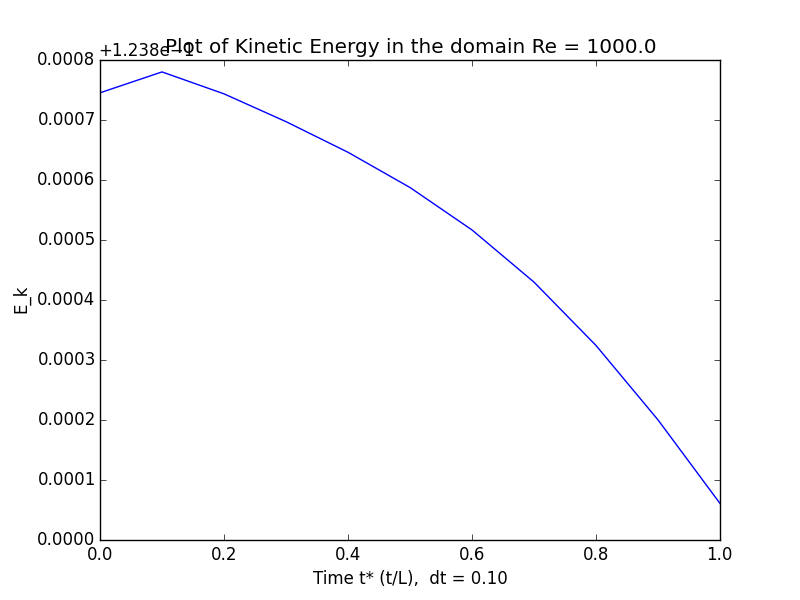
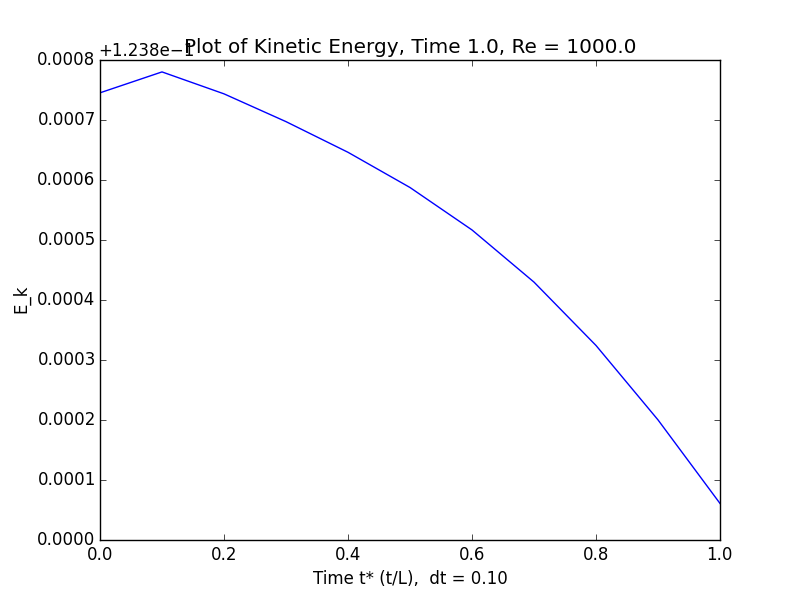
save exp

Changed region(s): [[0.1875, 0.06, 0.8125, 0.09]]

diff --git a/TaylorGreen/3D/chorin3D.py b/TaylorGreen/3D/chorin3D.py
@@ -167,17 +167,17 @@ set_log_active(False)
 error = []; dof = []; K = []; time_calc = []
 E_k = []; time = [0]; t_star = []
 N = [32];
-L = 1.; nu = 0.001; dt=0.01
+L = 1.; nu = 0.001; dt=0.001; T = 20.
 Re = L*1./nu
 print "Reynolds number %.1f" % Re
 #Watch nu
 for i in N:
-    chorin(i, dt=dt, T = 10, L = L, nu = nu)
+    chorin(i, dt=dt, T = T, L = L, nu = nu)
 if MPI.rank(mpi_comm_world()) == 0:
 	np.savetxt('chorindata/E_k.txt', E_k, delimiter=',')
 	np.savetxt('chorindata/t_star.txt', t_star, delimiter=',')
 	plt.figure(1)
-	plt.title("Plot of Kinetic Energy in the domain Re = %.1f" % Re)
+	plt.title("Plot of Kinetic Energy, Time %.1f, Re = %.1f" % (T, Re))
 	plt.xlabel('Time t* (t/L),  dt = %.2f' % dt)
 	plt.ylabel('E_k')
 	plt.plot(t_star, E_k)
@@ -186,7 +186,7 @@ if MPI.rank(mpi_comm_world()) == 0:
 	E_k = np.asarray(E_k); t_star = np.asarray(t_star)
 	E_t = (E_k[1:] - E_k[:-1])/dt
 	plt.figure(2)
-	plt.title("Plot of Dissipation in the domain")
+	plt.title("Plot of Dissipation")
 	plt.xlabel('Time t* (t/L)')
 	plt.ylabel(' dE_k/dt')
 	plt.plot(t_star[:-1], E_t)

diff --git a/TaylorGreen/3D/plotresult.py b/TaylorGreen/3D/plotresult.py
@@ -1,27 +1,7 @@
-import matplotlib.pyplot as plt
-import numpy as np
+import os
 
-E_k = np.loadtxt('E_k.txt')
-t_star = np.loadtxt('t_star.txt')
-
-E_k = np.asarray(-E_k)
-t_star = np.asarray(t_star)
-
-E_t = (E_k[1:] - E_k[:-1])/0.01
-
-
-plt.figure(2)
-plt.title("Plot of Kinetic energy in the domain")
-plt.xlabel('Time t* (t/L)')
-plt.ylabel(' dE_k/dt')
-plt.plot(t_star[:-1], E_t)
-
-plt.figure(1)
-plt.title("Plot of Dissipation in the domain")
-plt.xlabel('Time t* (t/L)')
-plt.ylabel(' dE_k/dt')
-plt.plot(t_star[:-1], E_t)
-
+os.system("python chorin3D.py")
+os.system("python ipcs3D.py")
 #32, Re = 1000, dt = 0.001 REFERENCE
 #20 30, Oasis, egne lsere, Choring, IPCS
 
@@ -39,5 +19,3 @@ plt.plot(t_star[:-1], E_t)
 #TIL NESTE GANG
 #32**3 Re = 1000
 #REferansedata
-
-plt.show()

diff --git a/TaylorGreen/3D/ipcs3D.py b/TaylorGreen/3D/ipcs3D.py
@@ -174,8 +174,8 @@ def ipcs(N, dt, T, L, rho, mu):
 
 
 set_log_active(False)
-N = [10]
-rho = 1000.; mu = 1.; T= 1.; dt = 0.1; L = 1.; nu = mu/rho
+N = [32]
+rho = 1000.; mu = 1.; T= 20.; dt = 0.001; L = 1.; nu = mu/rho
 Re = L*1./nu
 h = []; E = []; E_k = []; t_star = []; time_calc = []
 for n in N:
@@ -186,7 +186,7 @@ if MPI.rank(mpi_comm_world()) == 0:
 	np.savetxt('ipcsdata/E_k.txt', E_k, delimiter=',')
 	np.savetxt('ipcsdata/t_star.txt', t_star, delimiter=',')
 	plt.figure(1)
-	plt.title("Plot of Kinetic Energy in the domain Re = %.1f" % Re)
+	plt.title("Plot of Kinetic Energy, Time %.1f, Re = %.1f" % (T, Re))
 	plt.xlabel('Time t* (t/L),  dt = %.2f' % dt)
 	plt.ylabel('E_k')
 	plt.plot(t_star, E_k)
